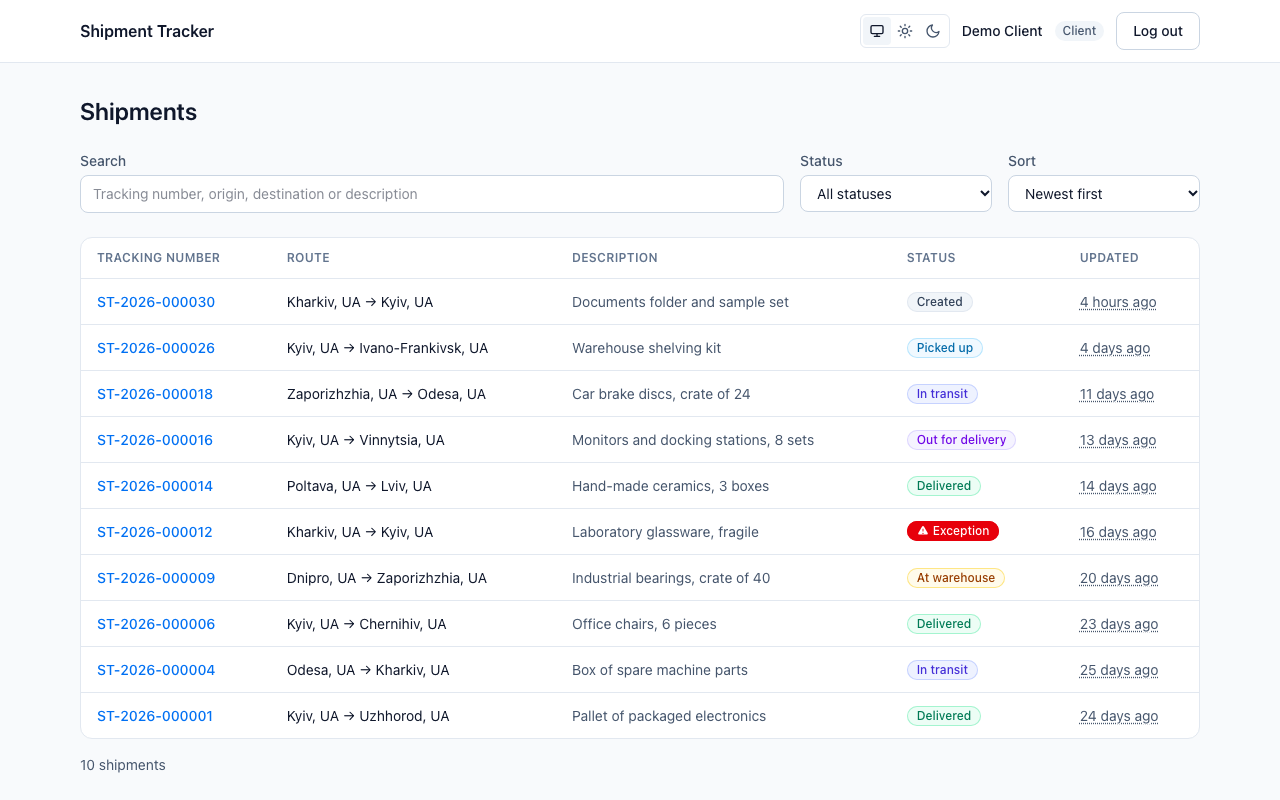
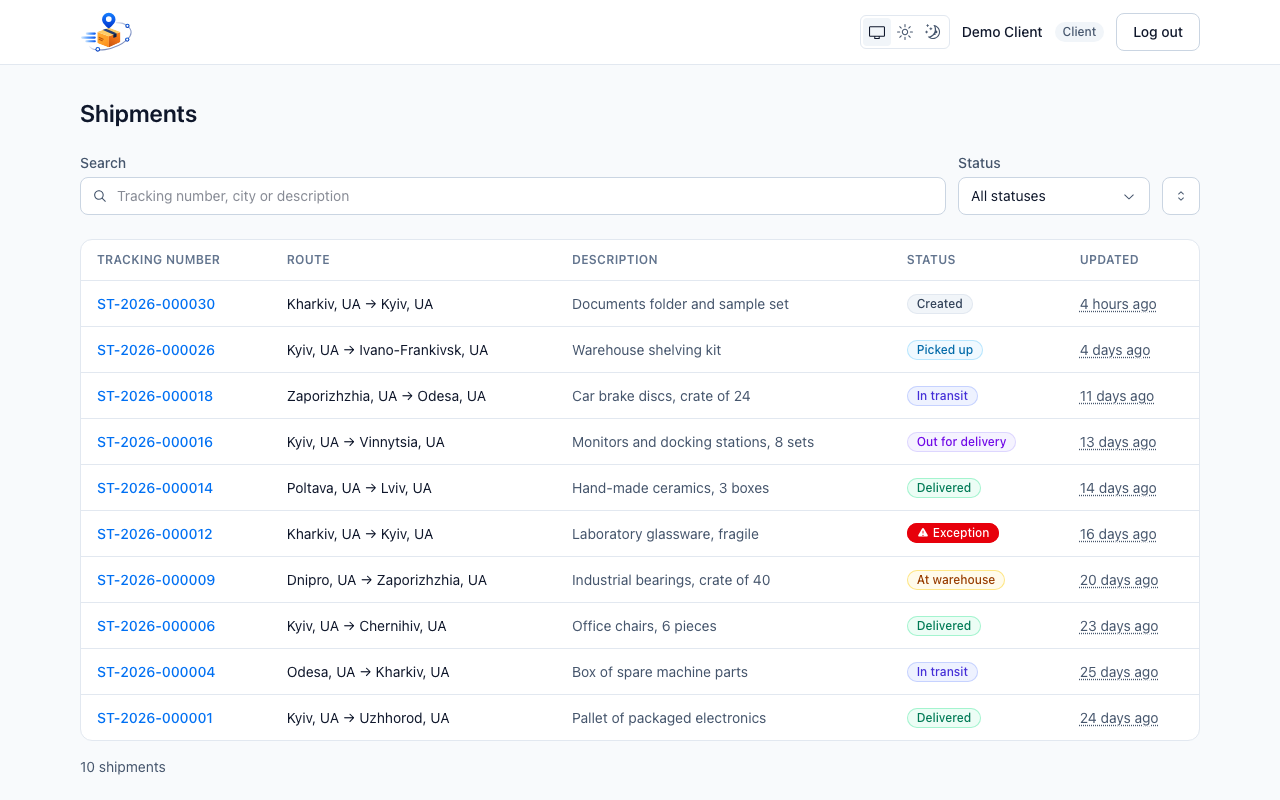
fix: clear the shipment search after a reload; add a clear button

diff --git a/apps/web/src/components/shipments/shipments-toolbar.tsx b/apps/web/src/components/shipments/shipments-toolbar.tsx
@@ -1,5 +1,6 @@
 'use client';
 
+import { Cross2Icon, MagnifyingGlassIcon } from '@radix-ui/react-icons';
 import type { ListShipmentsQuery } from '@shipment-tracker/shared';
 import { useRouter } from 'next/navigation';
 import { type ReactNode, useEffect, useRef, useState } from 'react';
@@ -8,6 +9,7 @@ import { FiltersPopover } from '@/components/shipments/filters-popover';
 import { SortMenu } from '@/components/shipments/sort-menu';
 import { StatusSelect } from '@/components/shipments/status-select';
 import { TextField } from '@/components/ui/text-field';
+import { cn } from '@/lib/cn';
 import { buildListHref, withListChange } from '@/lib/shipments/list-params';
 import { useDebouncedValue } from '@/lib/use-debounced-value';
 import { useAuthStore } from '@/stores/auth';
@@ -22,6 +24,7 @@ export function ShipmentsToolbar({ query }: { query: ListShipmentsQuery }): Reac
   const debounced = useDebouncedValue(text, SEARCH_DEBOUNCE_MS);
   /** The search value this box and the URL last agreed on. */
   const lastSynced = useRef(urlSearch);
+  const input = useRef<HTMLInputElement>(null);
 
   // URL → box: only when something else changed the URL (Back, "Clear filters").
   useEffect(() => {
@@ -40,6 +43,15 @@ export function ShipmentsToolbar({ query }: { query: ListShipmentsQuery }): Reac
     // the previous text back.
   }, [debounced]);
 
+  // Clear search: drop the search from the URL at once instead of waiting for the debounce.
+  function clearSearch(): void {
+    setText('');
+    input.current?.focus();
+    if (lastSynced.current === '') return;
+    lastSynced.current = '';
+    router.replace(buildListHref(withListChange(query, { search: undefined })));
+  }
+
   const role = useAuthStore((state) => state.user?.role);
   const placeholder =
     role === 'DISPATCHER' ? 'Tracking number, client, city or description' : 'Tracking number, city or description';
@@ -48,12 +60,31 @@ export function ShipmentsToolbar({ query }: { query: ListShipmentsQuery }): Reac
     <div className="mt-6 flex items-end gap-3">
       <div className="min-w-0 flex-1">
         <TextField
+          ref={input}
           label="Search"
           type="search"
           maxLength={100}
           placeholder={placeholder}
           value={text}
           onChange={(event) => setText(event.target.value)}
+          className="[&::-webkit-search-cancel-button]:appearance-none"
+          leading={<MagnifyingGlassIcon aria-hidden className="h-4 w-4" />}
+          trailing={
+            text === '' ? undefined : (
+              <button
+                type="button"
+                aria-label="Clear search"
+                title="Clear search"
+                onClick={clearSearch}
+                className={cn(
+                  'rounded-md p-1.5 text-ink-muted hover:text-ink',
+                  'focus-visible:outline-2 focus-visible:outline-offset-2 focus-visible:outline-accent',
+                )}
+              >
+                <Cross2Icon aria-hidden className="h-4 w-4" />
+              </button>
+            )
+          }
         />
       </div>
       <div className="hidden items-end gap-3 sm:flex">

diff --git a/apps/web/tests/components/shipments/shipments-toolbar.test.tsx b/apps/web/tests/components/shipments/shipments-toolbar.test.tsx
@@ -17,6 +17,7 @@ function Harness(): ReactNode {
 const search = () => screen.getByLabelText<HTMLInputElement>('Search');
 const status = () => screen.getByRole('combobox', { name: 'Status' });
 const sortButton = (name: string) => screen.getByRole('button', { name });
+const clearButton = () => screen.queryByRole('button', { name: 'Clear search' });
 const wait = (ms: number) => act(() => new Promise<void>((resolve) => setTimeout(resolve, ms)));
 
 /** Neither `replace` nor `push` was called, after the debounce had every chance to fire. */
@@ -201,6 +202,57 @@ describe('ShipmentsToolbar', () => {
     await userEvent.setup().clear(search());
 
     await vi.waitFor(() => expect(routerMock.replace).toHaveBeenCalledWith('/shipments?status=DELIVERED'));
+  });
+
+  it('drops the search from the URL when the box is cleared after a reload', async () => {
+    navigate('/shipments?search=kyiv');
+    render(<Harness />);
+
+    await userEvent.setup().clear(search());
+
+    expect(search()).toHaveValue('');
+    await vi.waitFor(() => expect(routerMock.replace).toHaveBeenCalledWith('/shipments'));
+    expect(routerMock.replace).toHaveBeenCalledTimes(1);
+  });
+
+  it('shows Clear search only while the box has text', async () => {
+    navigate('/shipments');
+    render(<Harness />);
+    const user = userEvent.setup();
+
+    expect(clearButton()).not.toBeInTheDocument();
+    await user.type(search(), 'k');
+    expect(clearButton()).toBeInTheDocument();
+    await user.clear(search());
+    expect(clearButton()).not.toBeInTheDocument();
+  });
+
+  it('Clear search empties the box and replaces the URL at once', async () => {
+    navigate('/shipments?search=kyiv&status=EXCEPTION&page=2');
+    render(<Harness />);
+
+    await userEvent.setup().click(screen.getByRole('button', { name: 'Clear search' }));
+
+    expect(search()).toHaveValue('');
+    expect(routerMock.replace).toHaveBeenCalledTimes(1);
+    expect(routerMock.replace).toHaveBeenCalledWith('/shipments?status=EXCEPTION');
+    expect(search()).toHaveFocus();
+    expect(clearButton()).not.toBeInTheDocument();
+    await wait(400);
+    expect(routerMock.replace).toHaveBeenCalledTimes(1);
+    expect(routerMock.push).not.toHaveBeenCalled();
+  });
+
+  it('Clear search works after a reload', async () => {
+    navigate('/shipments?search=kyiv');
+    render(<Harness />);
+
+    await userEvent.setup().click(screen.getByRole('button', { name: 'Clear search' }));
+
+    expect(search()).toHaveValue('');
+    expect(routerMock.replace).toHaveBeenCalledWith('/shipments');
+    await wait(400);
+    expect(routerMock.replace).toHaveBeenCalledTimes(1);
   });
 
   it('does not navigate for whitespace', async () => {

diff --git a/apps/web/src/components/ui/text-field.tsx b/apps/web/src/components/ui/text-field.tsx
@@ -2,10 +2,17 @@ import { useId, type ComponentProps, type ReactNode } from 'react';
 
 import { cn } from '@/lib/cn';
 
-type TextFieldProps = ComponentProps<'input'> & { label: string; error?: string };
+type TextFieldProps = ComponentProps<'input'> & {
+  label: string;
+  error?: string;
+  /** Shown inside the box, before the text (e.g. an icon). */
+  leading?: ReactNode;
+  /** Shown inside the box, after the text (e.g. a clear button). */
+  trailing?: ReactNode;
+};
 
 /** A label, an input and the input's error. `ref` reaches the `<input>` (React Hook Form's `register()`). */
-export function TextField({ label, error, id, className, ...rest }: TextFieldProps): ReactNode {
+export function TextField({ label, error, leading, trailing, id, className, ...rest }: TextFieldProps): ReactNode {
   const generatedId = useId();
   const inputId = id ?? generatedId;
   const errorId = `${inputId}-error`;
@@ -16,18 +23,28 @@ export function TextField({ label, error, id, className, ...rest }: TextFieldPro
       <label htmlFor={inputId} className="block text-sm font-medium text-ink-muted">
         {label}
       </label>
-      <input
-        {...rest}
-        id={inputId}
-        aria-invalid={hasError}
-        aria-describedby={hasError ? errorId : undefined}
-        className={cn(
-          'mt-1 block w-full rounded-lg border border-line-strong bg-surface px-3 py-2 text-sm text-ink',
-          'focus:border-accent focus:outline-none focus:ring-2 focus:ring-accent/20',
-          hasError && 'border-red-600',
-          className,
+      <div className="relative mt-1">
+        {leading != null && (
+          <span className="pointer-events-none absolute inset-y-0 left-3 flex items-center text-ink-muted">
+            {leading}
+          </span>
         )}
-      />
+        <input
+          {...rest}
+          id={inputId}
+          aria-invalid={hasError}
+          aria-describedby={hasError ? errorId : undefined}
+          className={cn(
+            'block w-full rounded-lg border border-line-strong bg-surface py-2 text-sm text-ink',
+            'focus:border-accent focus:outline-none focus:ring-2 focus:ring-accent/20',
+            leading != null ? 'pl-9' : 'pl-3',
+            trailing != null ? 'pr-9' : 'pr-3',
+            hasError && 'border-red-600',
+            className,
+          )}
+        />
+        {trailing != null && <span className="absolute inset-y-0 right-1.5 flex items-center">{trailing}</span>}
+      </div>
       {hasError && (
         <p id={errorId} role="alert" className="mt-1 text-sm text-red-600 dark:text-red-400">
           {error}

diff --git a/apps/web/tests/app/shipments-page.test.tsx b/apps/web/tests/app/shipments-page.test.tsx
@@ -1,7 +1,7 @@
 import { screen } from '@testing-library/react';
 import { describe, expect, it } from 'vitest';
 
-import ShipmentsPage, { metadata } from '@/app/(dashboard)/shipments/page';
+import ShipmentsPage, { dynamic, metadata } from '@/app/(dashboard)/shipments/page';
 import { useAuthStore } from '@/stores/auth';
 
 import { jsonResponse, mockFetch } from '../helpers/fetch';
@@ -17,6 +17,12 @@ describe('ShipmentsPage', () => {
 
     expect(await screen.findByRole('heading', { level: 1, name: 'Shipments' })).toBeInTheDocument();
     expect(await screen.findByRole('link', { name: 'ST-2026-000002' })).toBeInTheDocument();
+  });
+
+  // A prerendered /shipments makes Next.js 16.2 reuse the URL of a direct load (e.g. /shipments?search=kyiv) for
+  // every later soft navigation to /shipments, so the list could never leave that query (task 19f).
+  it('is rendered per request, so a direct load with a query does not pin the URL', () => {
+    expect(dynamic).toBe('force-dynamic');
   });
 
   it('sets the page title', () => {

diff --git a/apps/web/e2e/smoke.spec.ts b/apps/web/e2e/smoke.spec.ts
@@ -13,6 +13,15 @@ test('the demo dispatcher signs in, opens a shipment and signs out', async ({ pa
   const trackingNumber = (await link.textContent())?.trim() ?? '';
   expect(trackingNumber).toMatch(/^ST-\d{4}-\d{6}$/);
 
+  // A direct load with a query, then clearing the search, must drop it from the URL (task 19f).
+  await page.goto('/shipments?search=kyiv');
+  const search = page.getByLabel('Search', { exact: true });
+  await expect(search).toHaveValue('kyiv');
+  await expect(table).toBeVisible();
+  await search.fill('');
+  await expect(page).toHaveURL(/\/shipments$/);
+  await expect(link).toHaveText(trackingNumber);
+
   await link.click();
   await expect(page.getByRole('heading', { level: 1 })).toHaveText(trackingNumber);
   await expect(page.getByRole('region', { name: 'Shipment details' })).toBeVisible();

diff --git a/apps/web/src/app/(dashboard)/shipments/page.tsx b/apps/web/src/app/(dashboard)/shipments/page.tsx
@@ -2,6 +2,14 @@ import { type ReactNode, Suspense } from 'react';
 
 import { ShipmentsList } from '@/components/shipments/shipments-list';
 
+/**
+ * Rendered per request, not prerendered. Next.js 16.2 seeds its client route cache for a prerendered page with the
+ * URL of the first load, query included, and every later soft navigation to `/shipments` writes that URL back to the
+ * address bar: after loading `/shipments?search=kyiv`, no search, filter, sort or page change could leave it (19f).
+ * Re-check this after a Next.js upgrade, and remove it once the upgrade fixes that behaviour.
+ */
+export const dynamic = 'force-dynamic';
+
 export const metadata = { title: 'Shipments — Shipment Tracker' };
 
 /** `ShipmentsList` reads the URL through `useSearchParams`, so it needs a `Suspense` boundary (C18). */

diff --git a/docs/superpowers/plans/2026-11-28-logo-header-toolbar.md b/docs/superpowers/plans/2026-11-28-logo-header-toolbar.md
@@ -303,34 +303,34 @@ still holds.
 The bug (owner's repro): type a search and wait for `?search=` → reload → clear the box with the browser's ✕ → the
 box empties but the URL and the results keep the old search. Without the reload, clearing works.
 
-- [ ] **Step 1: Reproduce in a real browser first** (`superpowers:systematic-debugging`) — production build + API,
+- [x] **Step 1: Reproduce in a real browser first** (`superpowers:systematic-debugging`) — production build + API,
       headless Playwright: go to `/shipments?search=kyiv` as Demo dispatcher (a fresh load = the reload), clear the box
       (`fill('')` and, separately, `press('Control+A')` + `press('Backspace')`), wait 1 s, record `page.url()`. Write
       down which variants keep `search=kyiv` and find the root cause in the box ↔ URL sync (`lastSynced`, the two
       effects, `useDebouncedValue`'s initial value, how the box is first rendered after a full load). Record the cause in
       the report before changing code.
-- [ ] **Step 2: Failing unit test(s) pinning that cause** — at minimum
+- [x] **Step 2: Failing unit test(s) pinning that cause** — at minimum
       `it('drops the search from the URL when the box is cleared after a reload')`: `navigate('/shipments?search=kyiv')`,
       render, clear the box, after the debounce `routerMock.replace` was called with `'/shipments'`. If the root cause
       only shows under a specific mount sequence (e.g. an empty first render, then the URL), the test reproduces that
       sequence. Run → FAIL.
-- [ ] **Step 3: Fix the root cause** in `shipments-toolbar.tsx`; keep every existing toolbar test green (StrictMode,
+- [x] **Step 3: Fix the root cause** in `shipments-toolbar.tsx`; keep every existing toolbar test green (StrictMode,
       outside URL changes, typing never undone). Run the toolbar tests → PASS.
-- [ ] **Step 4: Clear button tests**, then implement:
+- [x] **Step 4: Clear button tests**, then implement:
   - `it('shows Clear search only while the box has text')`;
   - `it('Clear search empties the box and replaces the URL at once')` — from `?search=kyiv&status=EXCEPTION&page=2`,
     click → box `''`, `replace('/shipments?status=EXCEPTION')` called before any debounce wait, focus on the box;
   - `it('Clear search works after a reload')` — the Step 2 scenario through the button.
     Run → PASS.
-- [ ] **Step 5: Re-check in the browser** — repeat Step 1 plus the ✕ button: every variant ends with no `search` in
+- [x] **Step 5: Re-check in the browser** — repeat Step 1 plus the ✕ button: every variant ends with no `search` in
       the URL and the full list.
-- [ ] **Step 6: Regenerate the README screenshots** — `npm run db:demo-reset -w apps/api -- --confirm localhost`,
+- [x] **Step 6: Regenerate the README screenshots** — `npm run db:demo-reset -w apps/api -- --confirm localhost`,
       API + production web, `npm run screenshots -w apps/web` → `8 passed`; fix the spec's waits if Radix changed what it
       waits for. Look at every image: logo in the header, one-row toolbar, no error/empty state, dark ones dark.
       Stop servers; revert `next-env.d.ts`.
-- [ ] **Step 7: Gate** — `npm run lint && npm run typecheck && npm run test && npm run build` exit 0;
+- [x] **Step 7: Gate** — `npm run lint && npm run typecheck && npm run test && npm run build` exit 0;
       `npm run e2e -w apps/web` 1 passed.
-- [ ] **Step 8: Commit (informational)** — `fix: clear the shipment search after a reload; add a clear button`
+- [x] **Step 8: Commit (informational)** — `fix: clear the shipment search after a reload; add a clear button`
       (screenshots included).
 
 **Done when:** every way of clearing the search, before or after a reload, clears the URL and the results, and the

diff --git a/docs/plan.md b/docs/plan.md
@@ -116,7 +116,7 @@ Detailed per-milestone plans live in `docs/superpowers/plans/`.
     - [x] Task 19c — Radix (`radix-ui`, `@radix-ui/react-icons`), header with the logo, account menu on phones
     - [x] Task 19d — search by client name (API)
     - [x] Task 19e — Radix toolbar: Status select, Sort menu, "Filters and sort" popover on phones
-    - [ ] Task 19f — search clear button, the search-after-reload bug, fresh README screenshots
+    - [x] Task 19f — search clear button, the search-after-reload bug, fresh README screenshots
   - [ ] Task 20 — README II: the full README
   - [ ] Task 21 — M7 wrap-up, live smoke test, sign-off
 - [ ] M8 — admin role: an admin creates (invites) and deactivates dispatchers; decide whether a dispatcher is
